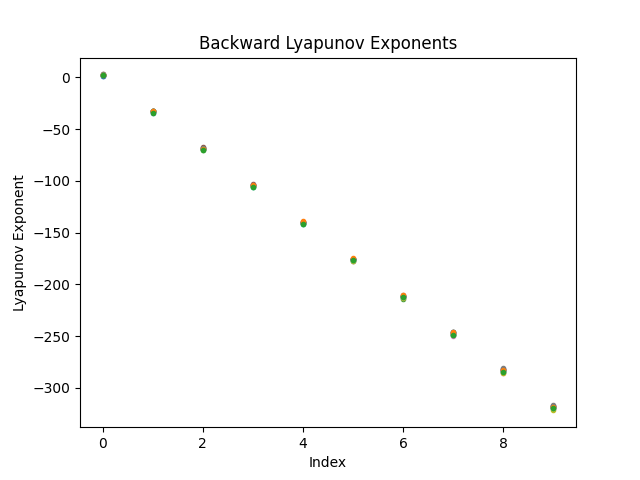
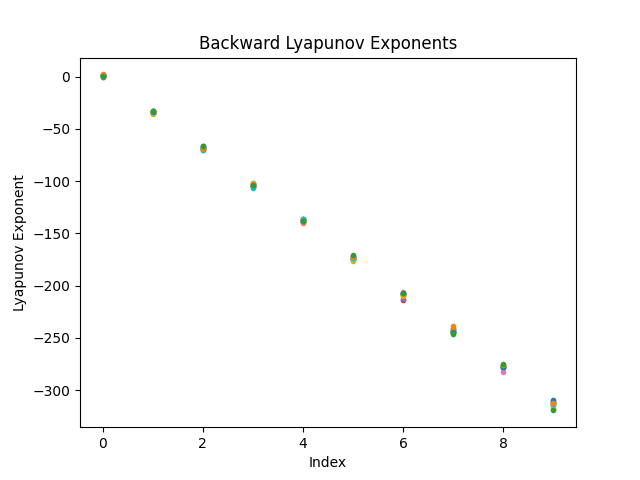
.

diff --git a/code/nn/main.py b/code/nn/main.py
@@ -5,7 +5,8 @@ from mnist import load_mnist
 import os
 
 num = 13
-is_forward = False
+is_forward = True
+
 
 def sigmoid(x):
     return 1 / (1 + np.exp(-x))
@@ -24,19 +25,21 @@ def softmax(x):
     x = x - np.max(x)
     return np.exp(x) / np.sum(np.exp(x))
 
+
 def softmax_grad(x):
     n = len(x)
     softmax = np.exp(x) / np.sum(np.exp(x))
     jacobi = np.zeros((n, n))
-    
+
     for i in range(n):
         for j in range(n):
             if i == j:
                 jacobi[i, j] = softmax[i] * (1 - softmax[i])
             else:
                 jacobi[i, j] = -softmax[i] * softmax[j]
-    
+
     return jacobi
+
 
 def cross_entropy_error(y, t):
     if y.ndim == 1:
@@ -159,7 +162,7 @@ if __name__ == "__main__":
         dy_dz = np.dot(W2, softmax_grad(y))
         dz_dx = np.dot(W1, sigmoid_grad(z))
 
-        Q0 = np.linalg.qr(np.random.randn(50, 50))[0]
+        Q0 = np.linalg.qr(np.random.randn(784, 10))[0]
 
         K = 2
         delta_t = 1.0
@@ -174,47 +177,46 @@ if __name__ == "__main__":
         nu_1 = np.dot(nu_2, dy_dz.T)
         nu_0 = np.dot(nu_1, dz_dx.T)
 
-        # Forward - 1st time step
-        _W1 = np.zeros((50, 50))
-        for j in range(50):
+        # Forward - 1st time step - v0 to v1
+        _W1 = np.zeros((50, 10))
+        for j in range(10):
             w0j = Q0[:, j]
-            print(w0j.shape)
-            w1j = np.dot(v0, dz_dx) @ w0j
+            w1j = np.dot(v0, w0j)
             _W1[:, j] = w1j
-        Q1, R1 = qr(_W1)
+        Q1, R1 = np.linalg.qr(_W1)
         D_forward.append(np.diag(R1))
 
-        # Forward - 2nd time step
+        # Forward - 2nd time step - v1 to v2
         v2 = np.dot(v1, dy_dz)
         _W2 = np.zeros((10, 10))
         for j in range(10):
             w1j = Q1[:50, j]
-            w2j = np.dot(v1, dy_dz) @ w1j
+            w2j = np.dot(v1, w1j)
             _W2[:, j] = w2j
-        Q2, R2 = qr(_W2)
+        Q2, R2 = np.linalg.qr(_W2)
         D_forward.append(np.diag(R2))
 
-        Q2 = np.linalg.qr(np.random.randn(50, 10))[0]
+        Q2 = np.linalg.qr(np.random.randn(10, 10))[0]
         dy = np.random.randn(10)
 
-        # Backward - 2nd time step
+        # Backward - 2nd time step - nu_2 to nu_1
         nu_1 = np.dot(nu_2, dy_dz.T)
         _W2 = np.zeros((50, 10))
         for j in range(10):
             w2j = Q2[:, j]
-            w1j = np.dot(nu_2, dy_dz.T) @ w2j
+            w1j = np.dot(nu_2, w2j)
             _W2[:, j] = w1j
-        Q1, R1 = qr(_W2)
+        Q1, R1 = np.linalg.qr(_W2)
         D_backward.append(np.diag(R1))
 
-        # Backward - 1st time step
+        # Backward - 1st time step - nu_1 to nu_0
         nu_0 = np.dot(nu_1, dz_dx.T)
-        _W1 = np.zeros((784, 50))
-        for j in range(50):
+        _W1 = np.zeros((784, 10))
+        for j in range(10):
             w1j = Q1[:, j]
-            w0j = np.dot(nu_1, dz_dx.T) @ w1j
+            w0j = np.dot(nu_1, w1j)
             _W1[:, j] = w0j
-        Q0, R0 = qr(_W1)
+        Q0, R0 = np.linalg.qr(_W1)
         D_backward.append(np.diag(R0))
 
         # Lyapunov Exponents
